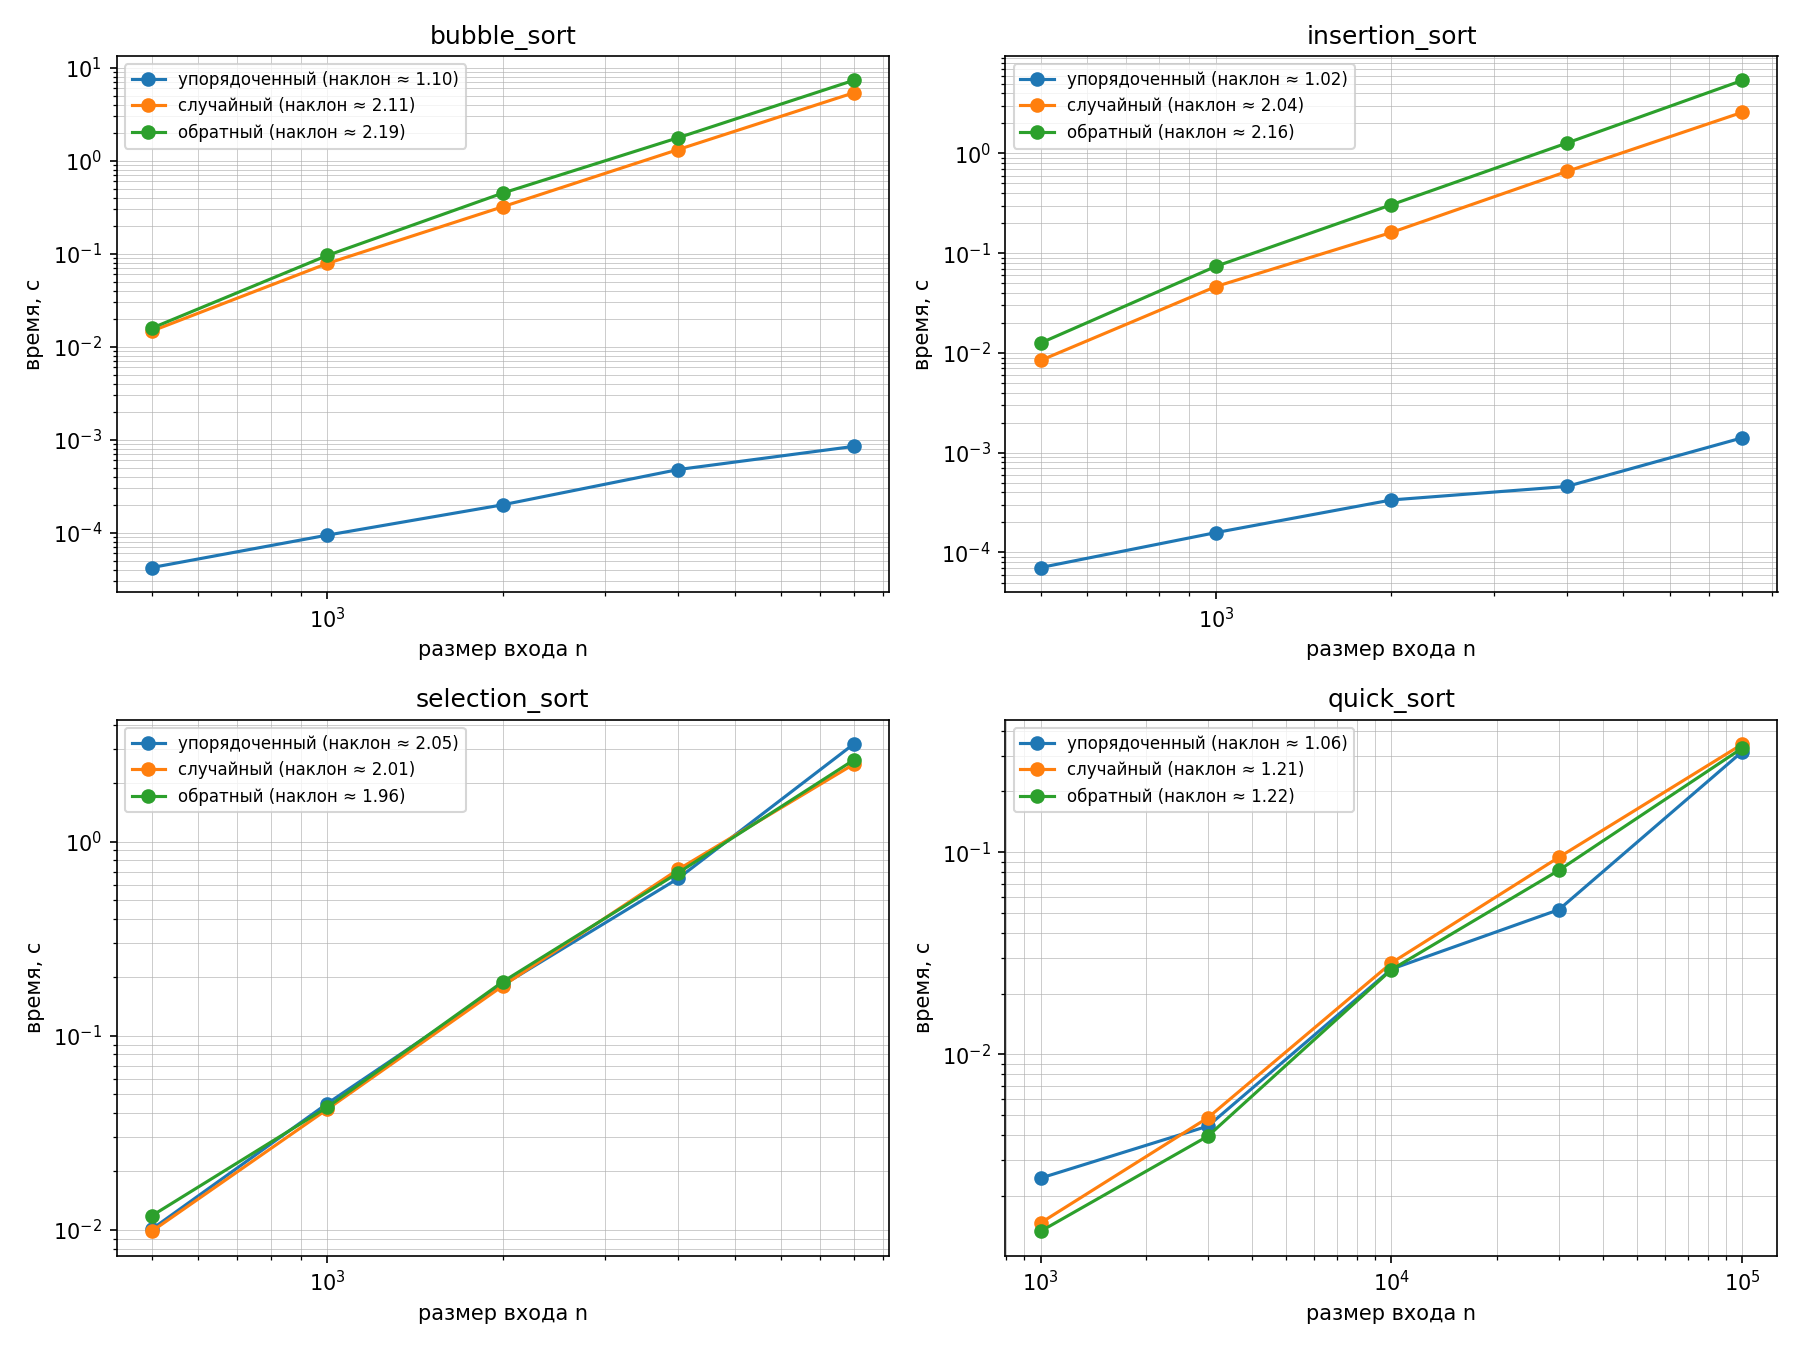
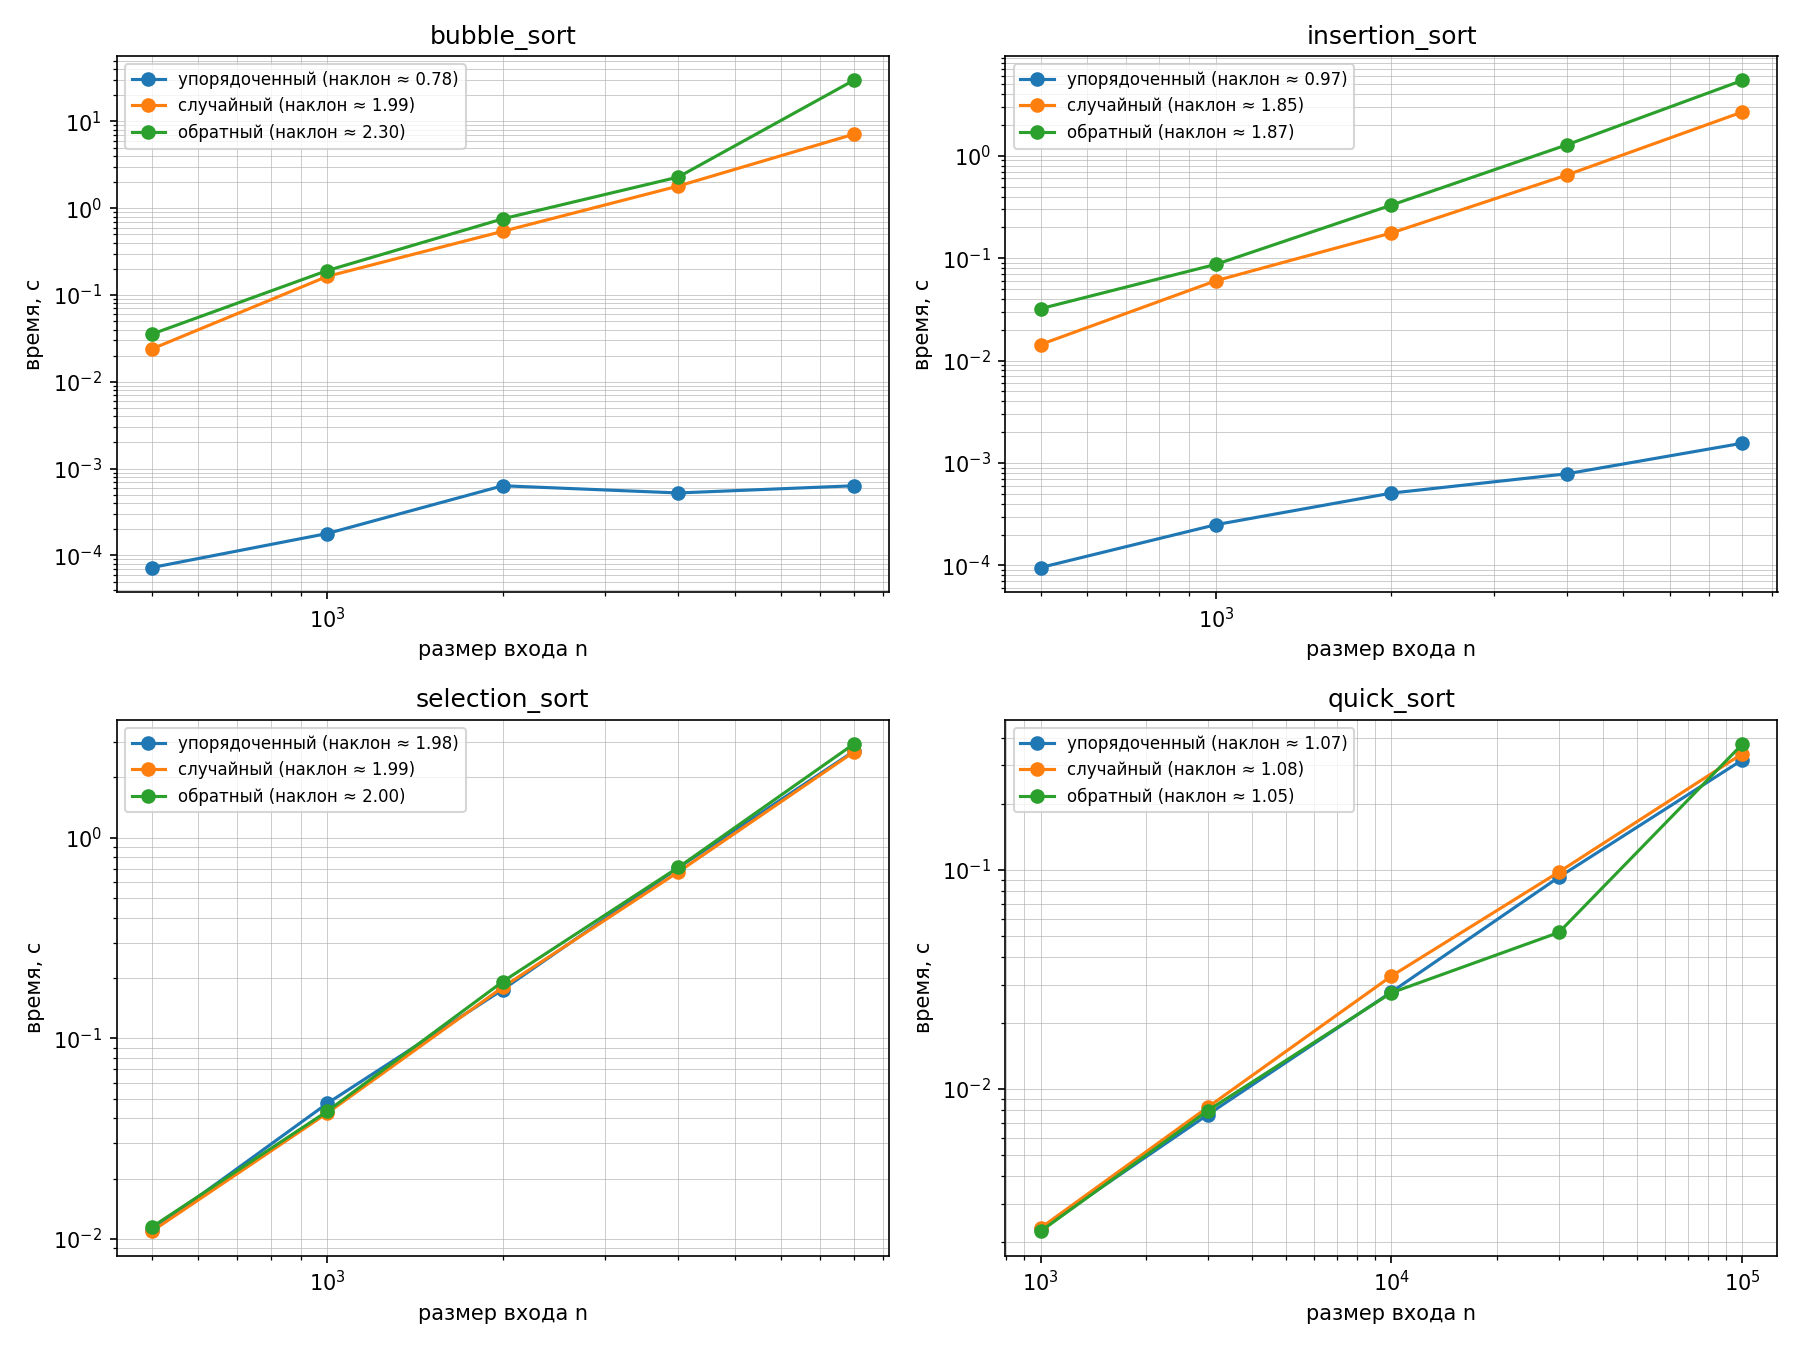
feat: написаны ожидаемые сложности

diff --git a/lab03/lab03-simple-sorts-quicksort-starter.py b/lab03/lab03-simple-sorts-quicksort-starter.py
@@ -25,10 +25,13 @@ from pathlib import Path
 
 
 def bubble_sort(a: list) -> tuple[list, int, int]:
-    """Сортировка пузырьком. Ожидаемая сложность: TODO (обосновать в отчёте).
+    """Сортировка пузырьком.
 
-    Подсказка: досрочный выход, если за проход не было ни одного обмена, —
-    именно он даёт лучший случай на упорядоченном входе.
+    Ожидаемая сложность: худший и средний случай O(n^2) (обратный/случайный
+    вход — полный перебор без досрочного выхода, n(n-1)/2 сравнений).
+    Лучший случай O(n) на уже отсортированном входе — досрочный выход,
+    если за проход не было ни одного обмена, останавливает алгоритм
+    после первого же прохода (n-1 сравнений).
     """
     copy = list(a)
     comp = swaps = 0
@@ -46,8 +49,13 @@ def bubble_sort(a: list) -> tuple[list, int, int]:
     return copy, comp, swaps
 
 def insertion_sort(a: list) -> tuple[list, int, int]:
-    """Сортировка вставками. Ожидаемая сложность: TODO (лучший/худший случаи)."""
-    # TODO: реализовать; считать сравнения и перемещения (сдвиги)
+    """Сортировка вставками.
+
+    Ожидаемая сложность: худший случай O(n^2) (обратный вход — каждый новый
+    элемент сдвигается через весь уже отсортированный префикс). Лучший
+    случай O(n) на уже отсортированном входе — внутренний while сразу
+    завершается без единого сдвига, остаётся n-1 сравнений.
+    """
     copy = list(a)
     comp = moves = 0
     for i  in range(1, len(copy)):
@@ -65,8 +73,14 @@ def insertion_sort(a: list) -> tuple[list, int, int]:
 
 
 def selection_sort(a: list) -> tuple[list, int, int]:
-    """Сортировка выбором. Ожидаемая сложность: TODO (почему не зависит от входа?)."""
-    # TODO: реализовать; считать сравнения и обмены
+    """Сортировка выбором.
+
+    Ожидаемая сложность: Theta(n^2) на любом входе. Чтобы найти минимум
+    среди оставшихся элементов, внутренний цикл обязан просмотреть их все
+    независимо от значений — число сравнений всегда n(n-1)/2, досрочного
+    выхода не существует. Единственная переменная величина — число
+    обменов (не больше n-1), но она не входит в число сравнений.
+    """
     copy = list(a)
     comp = swaps = 0
     n = len(copy)
@@ -90,12 +104,15 @@ def selection_sort(a: list) -> tuple[list, int, int]:
 def quick_sort(a: list, rng: random.Random | None = None) -> list:
     """QuickSort с выбором опорного через rng.randrange. Возвращает новый список.
 
-    Ожидаемая сложность: в среднем TODO, в худшем случае TODO (обосновать
-    в отчёте, объяснить роль рандомизации). rng передаётся снаружи, чтобы
+    Ожидаемая сложность: в среднем O(n log n) — случайный пивот в среднем
+    делит массив на сбалансированные части, глубина рекурсии ~log n, на
+    каждом уровне суммарно O(n) работы на фильтрацию. В худшем случае
+    O(n^2) — если пивот каждый раз оказывается экстремальным (мин/макс)
+    элементом, одна из частей пуста, а другая размера n-1; рандомизация
+    делает такое катастрофическое невезение на каждом уровне рекурсии
+    маловероятным, а не невозможным. rng передаётся снаружи, чтобы
     запуск был воспроизводим по seed варианта.
     """
-     # TODO: реализовать (рекурсивно или циклом со стеком);
-     # TODO: опорный элемент — a[rng.randrange(lo, hi)], не первый и не последний.
     if rng is None:
         rng = random.Random()
     if len(a) <= 1:
@@ -135,7 +152,6 @@ def stability_demo() -> None:
     по ключу (сравнение только по p[0]!) и напечатать порядок меток при равных
     ключах. Вывод о стабильности каждой сортировки включить в отчёт.
     """
-    # TODO: подготовить пары, прогнать все четыре сортировки, напечатать итог
     pairs = [(2, "a"), (1, "b"), (2, "c"), (1, "d")]
     wrapped = [_ByKey(p) for p in pairs]
     algorithms = {
